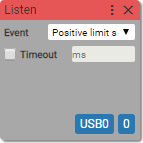
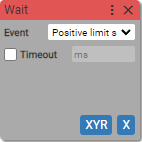
edit blocks

diff --git a/website-v2/docs/imac_editor.md b/website-v2/docs/imac_editor.md
@@ -151,7 +151,7 @@ Sets the type of the motor and the mode in which motor works.
   <Image className="margin-right--xs" src="../assets/blocks/mode_2.png" alt="Mode block"/>
 </div>
 
-:::note Block Arguments
+:::note Arguments
 
 *Motor type*:
 + Stepper
@@ -163,7 +163,7 @@ Sets the type of the motor and the mode in which motor works.
 :::
 :::info Action
 
-Sets the motor type to *`Stepper`* and operating mode to *`Position`* for axis `X` on the port name `XYZ`.
+Sets the motor type to *`Stepper`* and operating mode to *`Position`* for axis `X` on device `XYZ`.
 
 :::
 
@@ -177,7 +177,7 @@ Sets motion characteristics.
   <Image className="margin-right--xs" src="../assets/blocks/profile_3.png" alt="Profile block"/>
 </div>
 
-:::note Block Arguments
+:::note Arguments
 
 *Profile*:
 + trapezoidal
@@ -187,29 +187,29 @@ Sets motion characteristics.
 + positive integer
 + [variable]
 
-*Acceleration*: (units: counts/sec^2)
+*Acceleration*: (units: counts/sec<sup>2</sup>)
 + positive integer
 + [variable]
 
-*Deceleration*: (units: counts/sec^2)
+*Deceleration*: (units: counts/sec<sup>2</sup>)
 + positive integer
 + [variable]
 
-*Jerk*: (units: counts/sec^3)
+*Jerk*: (units: counts/sec<sup>3</sup>)
 + positive integer
 + [variable]
 
 :::
 :::info Action
 
-1. Sets the motion profile to `trapezoidal`, velocity, acceleration, deaceleration for axis `X` on the port name `XYR`.
-1. Sets the motion profile to `s-curve`, velocity, acceleration, jerk for axis `X` on the port name `XYR`.
+1. Sets the motion profile to `trapezoidal`, velocity, acceleration, deaceleration for axis `X` on device `XYR`.
+1. Sets the motion profile to `s-curve`, velocity, acceleration, jerk for axis `X` on device `XYR`.
 
 :::
 
-#### Move
+#### 3. Move
 
-Sets the type of motion, absolute position or relative distance, direction of the motion. By default the checkbox `Wait until done` is checked and that means that next block in the sequence will not be executed until the motion is completed.
+Execute motion with specified parameters
 
 <div className="d--flex">
   <Image className="margin-right--xs" src="../assets/blocks/move_1.png" alt="Move tile"/>
@@ -218,34 +218,72 @@ Sets the type of motion, absolute position or relative distance, direction of th
   <Image className="margin-right--xs" src="../assets/blocks/move_4.png" alt="Move block"/>
 </div>
 
+:::note Arguments
+
 *Type*:
 + Absolute
 
-  Uses when you need to move the axis relative to current homing position.
+  Use when you need to move the axis relative to current homing position.
 
 + Relative
 
-  Uses when you need to move the axis relative to current position.
+  Use when you need to move the axis relative to current position.
 
 + Velocity
 
-  Uses when you need to move the axis at a constant velocity in the selected direction.
+  Use when you need to move the axis at a constant velocity in the selected direction.
 
-*Position*: positive or negative integer or [variable] (units: counts)
+*Position*: (units: counts)
++ positive or negative integer 
++ [variable]
 
-*Distance*: positive or negative integer or [variable] (units: counts)
+*Distance*: (units: counts)
++ positive or negative integer
++ [variable]
 
-*Direction*: [*Positive / Negative*]
+*Direction*:
++ Positive
++ Negative
 
 >Multiplies the value of position or distance by `1` if Positive, and `-1` if Negative.
 
-*Wait until done*: [*True / False*]
+*Wait until done*:
++ True (checked)
++ False (unchecked)
 
->Sets motion type to *`Absolute`* or *`Relative`* or *`Velocity`*, moves to absolute position in counts if motion type is *`Absolute`*, moves given counts if motion type is relative, sets direction of motion to positive or negative, sets option "wait until done" to *`True`* or *`False`* for axis `X` on the port name `XYZ`.
+:::
+:::info Action
 
-#### Homing
+Sets the type and direction of the motion. By default the checkbox `Wait until done` is checked and that means that next block in the sequence is not being executed until the current motion is completed.
 
-Sets the homing position.
+If absolute motion is selected, axis moves to absolute position in counts.
+
+If relative motion is selected, axis moves given counts.
+
+If velocity motion is selected, axis moves infinitely in the selected direction.
+
+Sets motion for axis `X` on device `XYZ`.
+
+:::
+
+#### 4. Home
+
+Execute pre-configured (default) home positioning.
+
+<div className="d--flex">
+  <Image className="margin-right--xs" src="../assets/blocks/home_1.png" alt="Home tile"/>
+  <Image className="margin-right--xs" src="../assets/blocks/home_2.png" alt="Home block"/>
+</div>
+
+:::info Action
+
+Executes home positioning method that is configured in device settings for axis `X` on device `XYR`
+
+:::
+
+#### 5. Advanced Homing
+
+Executes home positioning with specified parameters
 
 <div className="d--flex">
   <Image className="margin-right--xs" src="../assets/blocks/homing_1.png" alt="Homing tile"/>
@@ -254,6 +292,7 @@ Sets the homing position.
   <Image className="margin-right--xs" src="../assets/blocks/homing_4.png" alt="Homing block"/>
 </div>
 
+:::note Arguments
 *Method*:
 + Current position
 
@@ -267,55 +306,115 @@ Sets the homing position.
 
   Use when home switch is needed to be set as homing position.
 
-*Direction*: [*Positive / Negative*]
+*Direction*:
++ Positive
++ Negative
 
->Works only with *`Limit switch`* and *`Home switch`* methods.
-If Limit switch method is elected, indicates that ***positive*** or ***negative*** limit switch is selected to be a homing position.
-If Home switch is selected, indicates the direction the axis should move in to get to the home switch.
+  Selects limit switch which axis moves into to set up homing position
 
-*Wait until referenced*: [*Always true*]
+  Indicates direction which axis moves in to find home switch
 
-Waits for axis completes the homing positioning.
+  Disabled when `Current position` is selected
 
-> Sets homing method to *`Current position`* or *`Limit Switch`* or *`Home Switch`*, sets direction of homing positioning to positive or negative for axis `X` on the port `XYZ`. Always waits until referenced.
+*Wait until referenced*:
+ + True
+
+  Always true. Waits for axis completes the homing positioning.
+
+:::
+:::info Action
+
+Sets homing method and direction for axis `X` on device `XYZ`. Always waits until referenced.
+
+:::
+
+#### 6. Abort motion
+
+Aborts motion
+
+<div className="d--flex">
+  <Image className="margin-right--xs" src="../assets/blocks/abort_1.png" alt="Abort tile"/>
+  <Image className="margin-right--xs" src="../assets/blocks/abort_2.png" alt="Abort block"/>
+</div>
+
+:::note Arguments
+
+*Abort deceleration*: (units: counts/sec<sup>2</sup>)
++ positive integer
+
+*Wait until done*:
++ True (checked)
++ False (unchecked)
+
+  Waits for motion completion if checked.
+
+:::
+:::info Action
+
+Aborts motion at axis `X` on device `XYR`. Motion gets slower with provided deceleration. Waits until axis stopped if `Wait until done` is checked.
+
+:::
 
 ### Time / Event Blocks
 
-#### Wait for digital input
+#### 7. Wait for digital input
 
-Waits for `High` or `Low` on selected digital input. The next block in the sequence will be executed only if expected value comes on given input.
+Waits for condition on selected digital input.
 
 <div className="d--flex">
   <Image className="margin-right--xs" src="../assets/blocks/wait_input_1.png" alt="Wait Input tile"/>
   <Image className="margin-right--xs" src="../assets/blocks/wait_input_2.png" alt="Wait Input block"/>
 </div>
 
-*Input*: number of input or [variable] (units: positive integer)
+:::note Arguments
 
-*Wait for*: input state or [variable] (units: Hi / Lo or 1 / 0)
+*Input*: (units: positive integer)
++ number of input 
++ [variable]
 
-> Waits for *`Hi`* on input *`3`* for axis `X` on the port `XYZ`.
+*Wait for*: (units: Hi / Lo or 1 / 0)
++ input state
++ [variable]
 
-#### Listen to event
+:::
+:::info Action
 
-Listens to events. The next block in the sequence will be executed only if awaited event happens.
+Waits for `Hi` condition on input `1` on device `Seadac`. The next block in the sequence will be executed only if expected condition comes on given input.
+
+:::
+
+#### 8. Listen to event
+
+Listens to events.
 
 <div className="d--flex">
   <Image className="margin-right--xs" src="../assets/blocks/listen_event_1.png" alt="Listen to Event tile"/>
   <Image className="margin-right--xs" src="../assets/blocks/listen_event_2.png" alt="Listen to Event block"/>
 </div>
 
+:::note Arguments
+
 *Event*:
 + Positive limit switch
 + Negative limit switch
 
-*Timeout*: [*ms*]
+*Timeout*:
++ True (checked)
++ False (unchecked)
+
+*Milliseconds*: (units: milliseconds)
++ positive integer
+
+:::
+:::info Action
+
+Awaits the `Positive limit switch` is triggered at the axis `X` on device `XYR`. The next block in the sequence will be executed only if awaited event happens.
 
 If during the specified time the event is not occurred, the error will be thrown and the further processing of the sequence of blocks will be stopped.
 
-Awaits the positive limit switch is triggered at the axis `0` on the port `USB0`.
+:::
 
-#### Delay
+#### 9. Delay
 
 Waits for specified milliseconds.
 
@@ -324,11 +423,18 @@ Waits for specified milliseconds.
   <Image className="margin-right--xs" src="../assets/blocks/delay_2.png" alt="Delay block"/>
 </div>
 
-*Time*: [*ms*]
+:::note Arguments
+*Time*: (units: milliseconds)
++ positive number
+
+:::
+:::info Action
 
 Waits for the specified time. The next block in the sequence will be executed only after the time is expired.
 
-#### Wait until done
+:::
+
+#### 10. Wait until done
 
 Waits until the motion launched by previous block is completed.
 
@@ -337,15 +443,68 @@ Waits until the motion launched by previous block is completed.
   <Image className="margin-right--xs" src="../assets/blocks/wait_until_done_2.png" alt="Wait until done block"/>
 </div>
 
+:::note Arguments
+:::
+:::info Action
+
+Waits until axis `X` on device `XYR` completes its motion.
+
+Checks the motion at axis `X` on device `XYR`. If the motion does not exist (or the motion is ended) the next block in the sequence will be allowed to run.
+
+:::
+
 Example:
 
-<div>
-  <Image src="../assets/blocks/wait_until_done_example.png" alt="Wait until done example"/>
+<div className="d--flex">
+  <Image className="margin-right--xs" src="../assets/blocks/wait_until_done_example.png" alt="Wait until done example 1"/>
+  <Image className="margin-right--xs" src="../assets/blocks/wait_until_done_example_2.png" alt="Wait until done example 2"/>
+  <Image className="margin-right--xs" src="../assets/blocks/wait_until_done_example_3.png" alt="Wait until done example 2"/>
 </div>
 
-The block **`Wait until done`** checks the motion at axis `0` on the port `USB0`. If the motion does not exist (or the motion is ended) the next block in the sequence will be allowed to run.
+#### 11. Event Listener
 
-#### Event Listener
+Listens to event and executes event handler.
+
+<div className="d--flex">
+  <Image className="margin-right--xs" src="../assets/blocks/event_listener_1.png" alt="Event Listener tile"/>
+  <Image className="margin-right--xs" src="../assets/blocks/event_listener_2.png" alt="Event Listener block"/>
+  <Image className="margin-right--xs" src="../assets/blocks/event_listener_3.png" alt="Event Listener Config block"/>
+</div>
+
+:::note Arguments
+
+*Listen to*:
+
++ Input
+
+*Device*:
+
++ I/O device
+
+*Digital input*:
+
++ number of input
+
+*Input value*:
+
++ Hi
++ Lo
+
+*Interrupt*:
+
++ True
++ False
+
+*Event handler*:
+
++ Tab
+
+:::
+:::info Action
+
+
+
+:::
 
 ### I/O Blocks
 
